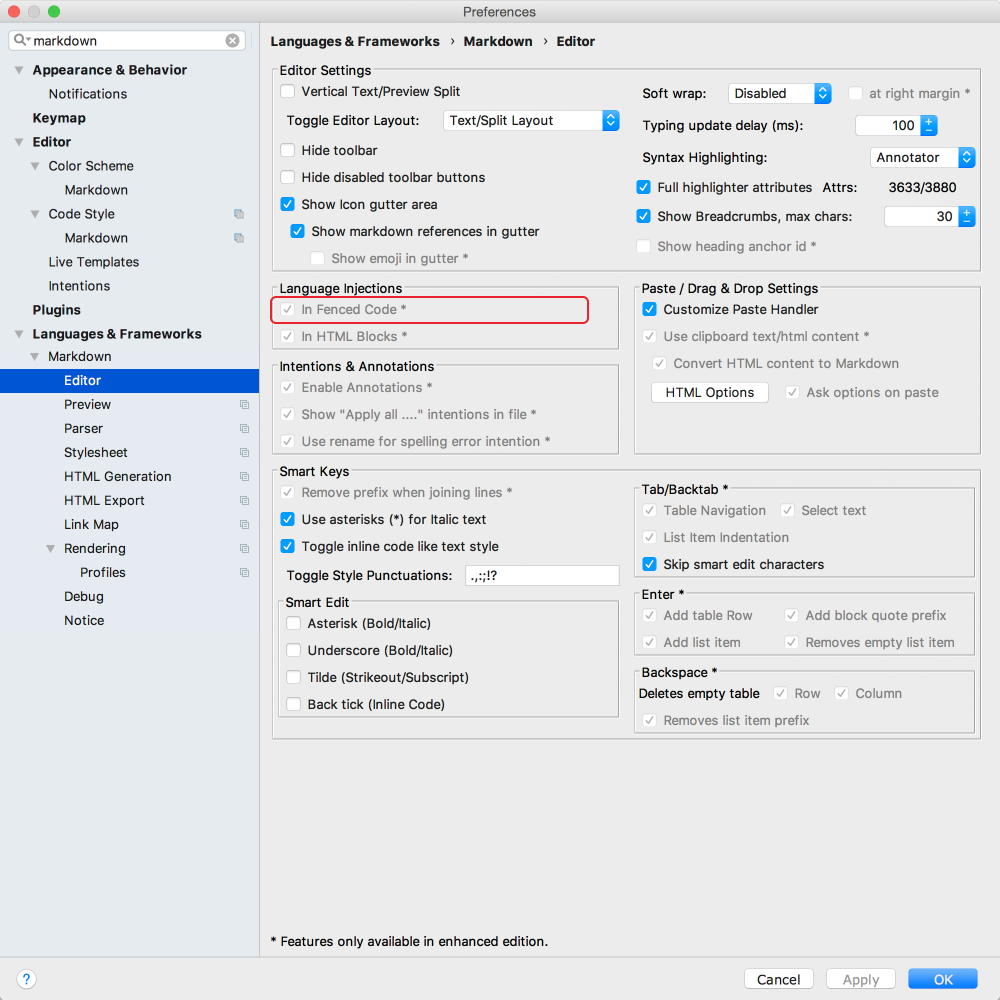
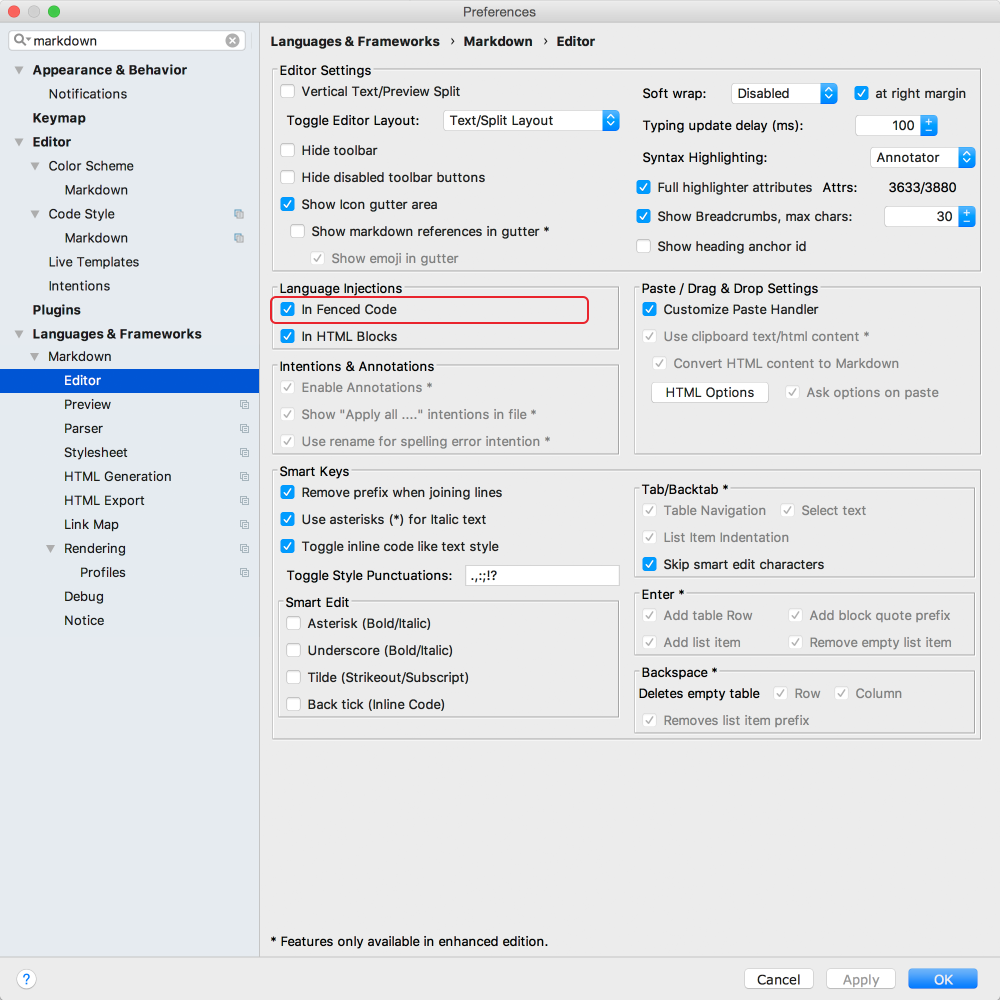
update screen shots

diff --git a/README.md b/README.md
@@ -1,4 +1,4 @@
-<img src="https://github.com/vsch/idea-multimarkdown/raw/master/assets/images/MNLogo.png" height="64" width="64" align="absmiddle"> Markdown Navigator 2.0
+<img src="https://github.com/vsch/idea-multimarkdown/raw/master/assets/images/MNLogo.png" height="64" width="64" align="absmiddle"> Markdown Navigator 2.8
 ==========================================================================================================================================================
 
 [TOC levels=2,3]: # "Table of Contents"
@@ -73,15 +73,13 @@ for:
 
 ### Two tier model
 
-1. Previewing and syntax highlighting functionality with a split editor is available in the
-   Basic open source edition. Intended for mostly previewing markdown documents and unaided
-   editing. Wiki link refactoring and completions are also available in the basic edition to
-   ease the task of wiki maintenance.
+1. Previewing, syntax highlighting, basic editing functionality with link completions with split
+   editor preview is available in the basic open source edition. Intended for mostly previewing
+   and editing of markdown documents without full document format.
 
 2. Advanced features used for creating and maintaining markdown documents: refactoring, find
-   usages, validation, auto formatting and HTML page customizations are only available in the
-   Enhanced licensed version. 15-day free trial licenses are available from [Markdown Navigator]
-   page on my website.
+   usages, validation and auto formatting are only available in the Enhanced licensed version.
+   15-day free trial licenses are available from [Markdown Navigator] page on my website.
 
 Release Road Map
 ----------------
@@ -100,8 +98,8 @@ Bug and compatibility fixes you can find in [Version Notes].
 
 [Install EAP plugin](../../wiki/EAP-Update-Channel) version to preview next release.
 
-* Add: Enhanced edition features migrated to basic edition:
-  * **Extensions**: Abbreviations, Jekyll Front Matter
+* Enhanced edition features migrated to basic edition:
+  * **Extensions**: Jekyll Front Matter
   * **Inspections**: GitHub Table, Jekyll Front Matter, Emoji Shortcut
   * **Completions**: Emoji shortcuts, Links, References, Fenced code language
   * **Editor Settings**: Language Injections, Remove prefix when joining lines, Simple structure
